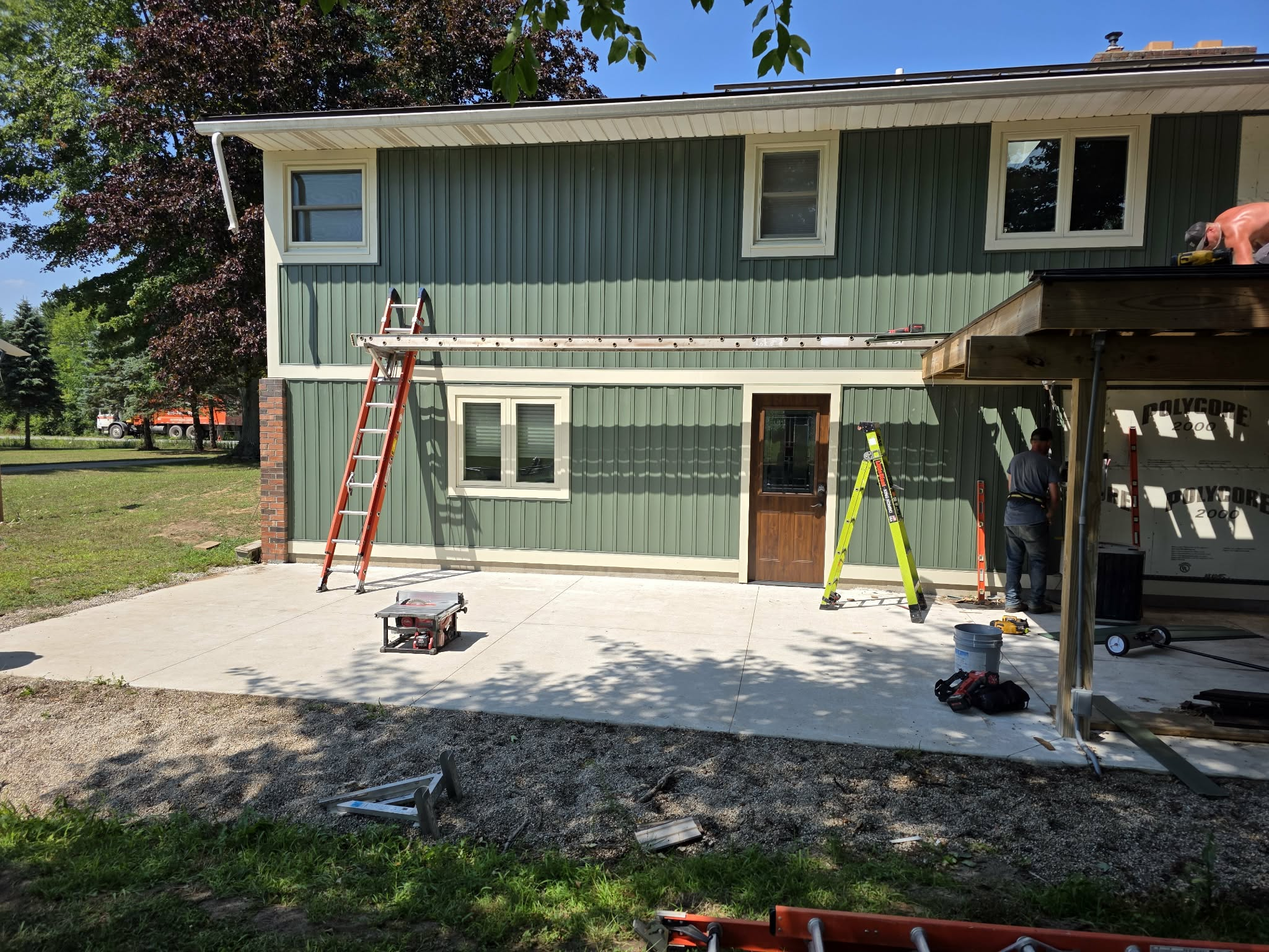
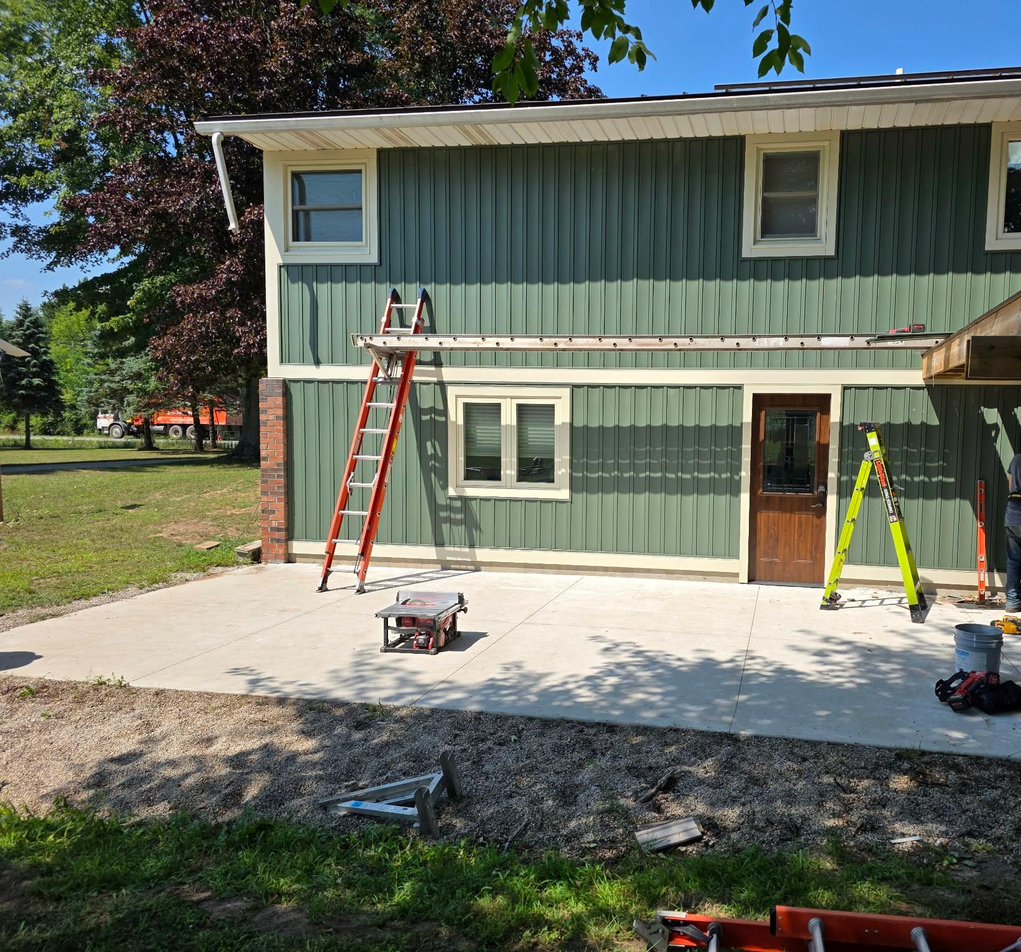
Made minor changes such as adding footer items, adjusting text, and updating images.

diff --git a/templates/home.html b/templates/home.html
@@ -23,7 +23,7 @@
     <main>
         <div class="block block1">
             <div class="hero-content">
-            <h1>Premium Siding & Construction Services</h1>
+            <h1>Premium Siding & Construction</h1>
             <p>Providing reliable, high-quality home improvement solutions across West Michigan.</p>
             <a href="{{ url_for('quote') }}"> <button class="appointment-btn">Get a Free Quote</button> </a>
     </div>
@@ -67,6 +67,27 @@
                             <li class="carousel-slide">
                                 <img src="{{ url_for('static', filename='images/houses/house10.jpg') }}" alt="house10" class="carousel-image">
                             </li>
+                            <li class="carousel-slide">
+                                <img src="{{ url_for('static', filename='images/houses/house11.jpg') }}" alt="house11" class="carousel-image">
+                            </li>
+                            <li class="carousel-slide">
+                                <img src="{{ url_for('static', filename='images/houses/house12.jpg') }}" alt="house12" class="carousel-image">
+                            </li>
+                            <li class="carousel-slide">
+                                <img src="{{ url_for('static', filename='images/houses/house13.jpg') }}" alt="house13" class="carousel-image">
+                            </li>
+                            <li class="carousel-slide">
+                                <img src="{{ url_for('static', filename='images/houses/house14.jpg') }}" alt="house14" class="carousel-image">
+                            </li>
+                            <li class="carousel-slide">
+                                <img src="{{ url_for('static', filename='images/houses/house15.jpg') }}" alt="house15" class="carousel-image">
+                            </li>
+                            <li class="carousel-slide">
+                                <img src="{{ url_for('static', filename='images/houses/house16.jpg') }}" alt="house16" class="carousel-image">
+                            </li>
+                            <li class="carousel-slide">
+                                <img src="{{ url_for('static', filename='images/houses/house17.jpg') }}" alt="house17" class="carousel-image">
+                            </li>
                         </ul>
                     </div>
                 </div>
@@ -77,6 +98,13 @@
 
                 <div class="carousel-nav">
                     <button class="carousel-indicator current-slide"></button>
+                    <button class="carousel-indicator"></button>
+                    <button class="carousel-indicator"></button>
+                    <button class="carousel-indicator"></button>
+                    <button class="carousel-indicator"></button>
+                    <button class="carousel-indicator"></button>
+                    <button class="carousel-indicator"></button>
+                    <button class="carousel-indicator"></button>
                     <button class="carousel-indicator"></button>
                     <button class="carousel-indicator"></button>
                     <button class="carousel-indicator"></button>
@@ -133,6 +161,16 @@
                 <div class="service-info">
                     <h3>Power washing & Gutter Cleanout</h3>
                     <p>We blast away dirt, mold, and debris from your home's exterior and clear out clogged gutters to keep everything looking and functioning its best.</p>
+                </div>
+            </div>
+
+            <div class="service-card">
+                <div class="service-img-wrap">
+                    <img src="{{ url_for('static', filename='images/services/kitchen.jpg') }}" alt="Residential & Commercial Construction" class="service-img">
+                </div>
+                <div class="service-info">
+                    <h3>Residential & Commercial Construction</h3>
+                    <p>We do everything from kitchens, baths, to complete home renovations for both commercial and residential.</p>
                 </div>
             </div>
 
@@ -196,7 +234,7 @@
         </div>
 
         <div class="block block7">
-            <img src="{{ url_for('static', filename='images/posing.png') }}" alt="drawing" class="drawing"/>
+            <img src="{{ url_for('static', filename='images/house.jpg') }}" alt="drawing" class="drawing"/>
 
             <div class="Contacting">
                 <h1>Contact Us Today!</h1>
@@ -228,6 +266,8 @@
                 <p>📞 (231) 343-0895</p>
                 <p>✉ onetouchsiding@gmail.com</p>
                 <a href="https://www.facebook.com/profile.php?id=100083180896576" target="_blank">Facebook</a>
+                <a href="https://www.bbb.org/us/mi/muskegon/profile/siding-contractors/one-touch-siding-0372-38310258" target="_blank">Better Business Bureau</a>
+                <p>Builder's License Number: #######</p>
             </div>
         </div>
 

diff --git a/static/css/style.css b/static/css/style.css
@@ -115,6 +115,14 @@ header {
   position: relative;
 }
 
+.block1 h1 {
+  padding: 0;
+  margin: 0 auto;
+  text-align: center;
+  font-size: 1.7rem;
+  line-height: 1.1;
+}
+
 .block1::before {
   content: '';
   position: absolute;
@@ -177,7 +185,7 @@ header {
   display: grid;
   grid-template-columns: repeat(auto-fit, minmax(220px, 1fr));
   gap: 1.5rem;
-  max-width: 1200px;
+  max-width: 1350px;
   margin: 0 auto;
 }
 
@@ -213,17 +221,17 @@ header {
 }
 
 .service-info {
-  padding: 1.2rem;
+  padding: 1rem 1.4rem 1.4rem; /* more breathing room on sides and bottom */
 }
 
 .service-info h3 {
   color: var(--accent);
-  font-size: 1.1em;
-  margin-bottom: 0.5rem;
+  font-size: 0.95em; /* reduced from 1.1em */
+  margin-bottom: 0.4rem;
 }
 
 .service-info p {
-  font-size: 0.85rem;
+  font-size: 0.78rem; /* reduced from 0.85rem */
   color: var(--text);
   line-height: 1.5;
 }
